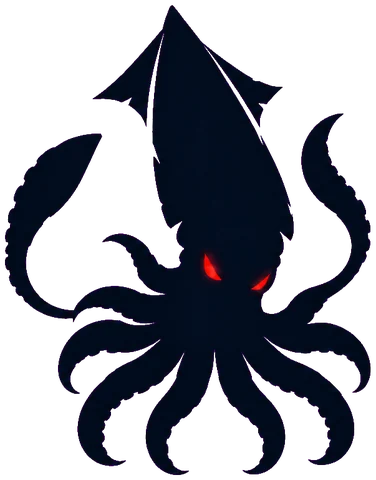
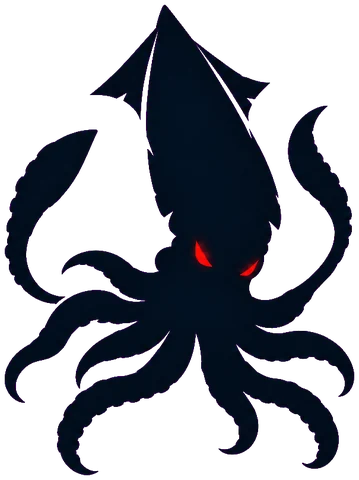
第3章は試遊版と手元だけで開く（本番の章一覧では工事中のまま。出す時期は別に決める）。シルエットは×印の4本を消した版（足8本＋触腕2本）に差し替え

diff --git a/src/js/ikabu/games/story-ui.js b/src/js/ikabu/games/story-ui.js
@@ -25,7 +25,10 @@ const KEY_SOUND = 'ikabu.battle.sound';   // 対戦の🔊と同じ切替
 const TENSE_BATTLES = { 1: new Set([8, 9]), 2: new Set([3, 8, 9]), 3: new Set([3, 5, 8, 9]) };
 const KEY_SEEN_CH = { 1: 'ikabu.story.seen', 2: 'ikabu.story.seen.ch2', 3: 'ikabu.story.seen.ch3' };
 const EPILOGUE_BG = { 1: 'bushitsu', 2: 'iso_yoake', 3: 'akatoudai_yoake' };
-const openChapters = (story) => CHAPTERS.filter((c) => c.count > 0 && (c.id === 1 || chapterCleared(story, c.id - 1, CHAPTERS[c.id - 2].count)));
+// 第3章は組み込み済みだが、本番に出す時期は別に決める（2026-10-16）。それまでは試遊版と手元だけで開き、本番では「工事中」のまま
+const CHAPTER_GATE = { 3: IS_TRIAL || import.meta.env.DEV };
+const chapterReady = (c) => c.count > 0 && (CHAPTER_GATE[c.id] ?? true);
+const openChapters = (story) => CHAPTERS.filter((c) => chapterReady(c) && (c.id === 1 || chapterCleared(story, c.id - 1, CHAPTERS[c.id - 2].count)));
 
 const charSrc = (id, face) => assetHref(`/assets/ikabu/story/chars/${id}_${face}.webp`);
 const bgSrc = (id) => assetHref(`/assets/ikabu/story/bg/${id}.webp`);
@@ -88,7 +91,7 @@ export function openStory({ lang = 'ja', onClose = null } = {}) {
     const opened = new Set(openChapters(story).map((c) => c.id));
     const chapterHTML = (c) => {
       const head = `<h3><span class="ika-st-chno">${t(lang, `第${c.id}章`, `Ch. ${c.id}`)}</span>${t(lang, ...c.title)}<small>${t(lang, 'ゴール', 'Goal')}：${t(lang, ...c.goal)}</small></h3>`;
-      if (c.count === 0) return `<section class="ika-st-ch is-wip">${head}<p class="ika-st-wip">🚧 ${t(lang, ...TX.wip)}</p></section>`;
+      if (!chapterReady(c)) return `<section class="ika-st-ch is-wip">${head}<p class="ika-st-wip">🚧 ${t(lang, ...TX.wip)}</p></section>`;
       if (!opened.has(c.id)) return `<section class="ika-st-ch is-wip">${head}<p class="ika-st-wip">${TX.lockedCh(lang, c.id - 1)}</p>${IS_TRIAL && c.id === 2 ? `<button type="button" class="ika-btn" data-trial-skip>${t(lang, ...TX.trialSkip)}</button>` : ''}</section>`;
       const nxt = nextBattle(story, c.id, c.count);
       return `<section class="ika-st-ch is-open">${head}
